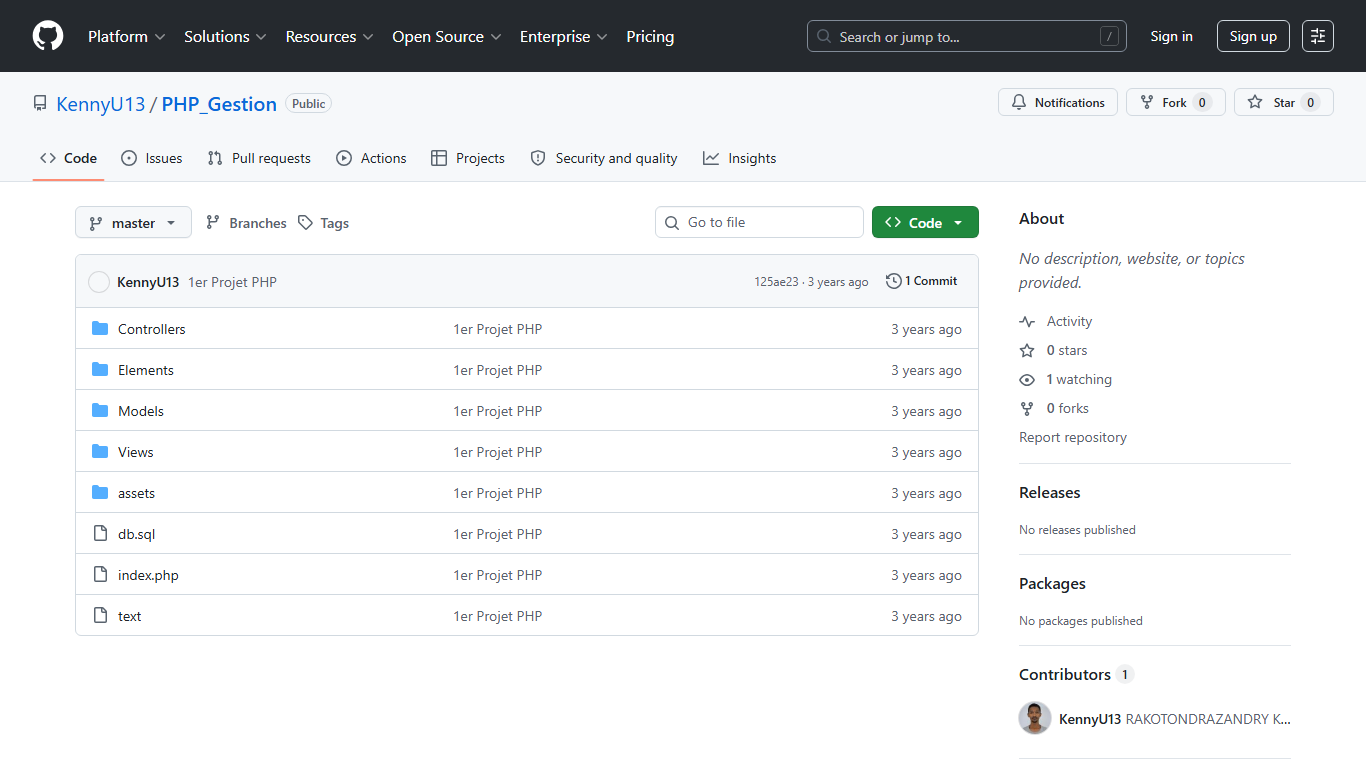
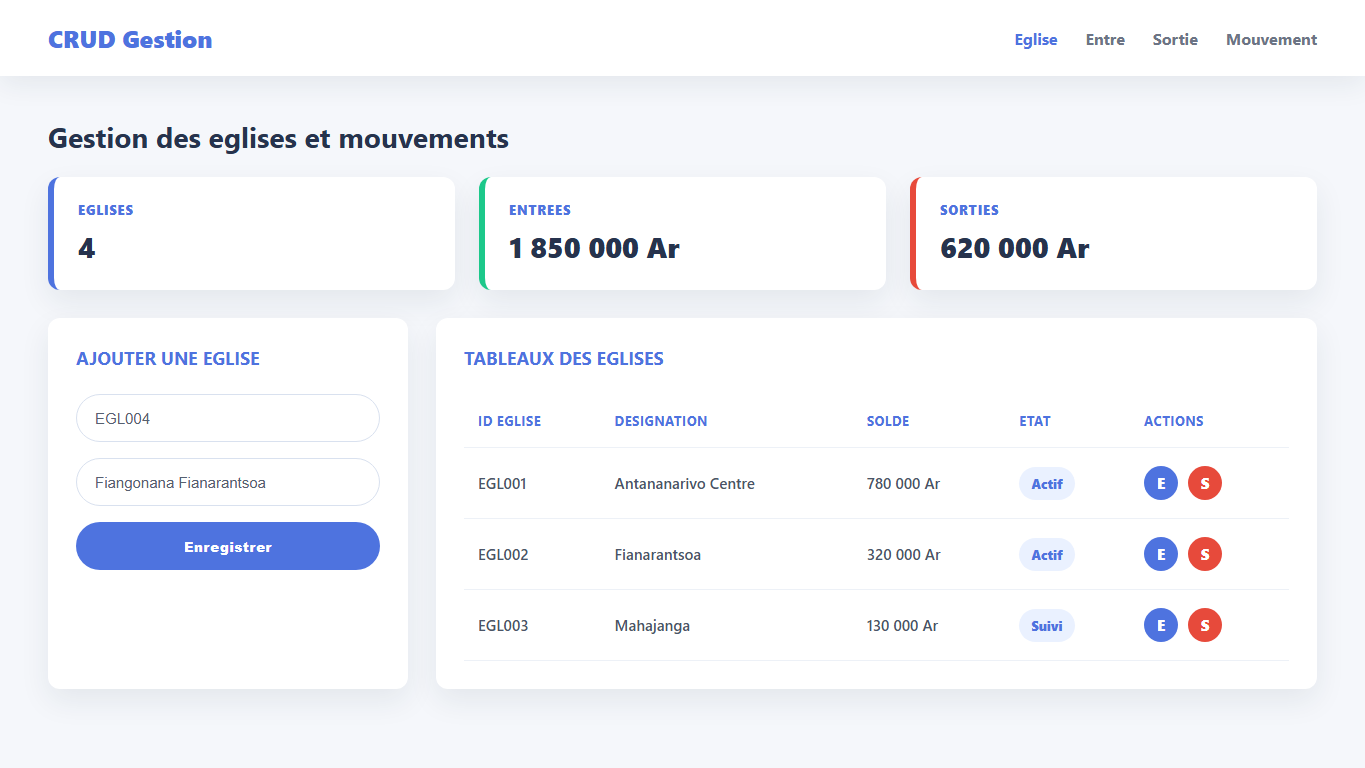
Refresh PHP Gestion demo capture

diff --git a/src/pages/Projects/Projects.jsx b/src/pages/Projects/Projects.jsx
@@ -43,7 +43,7 @@ const projects = [
     title: "PHP_Gestion",
     description:
       "Projet de gestion web construit avec PHP, JavaScript et CSS pour travailler les bases d'une application web dynamique.",
-    image: "/project-demos/php-gestion.png?v=2",
+    image: "/project-demos/php-gestion.png?v=3",
     color: "#777bb4",
     stack: ["PHP", "JavaScript", "CSS"],
     githubLink: "https://github.com/KennyU13/PHP_Gestion",
